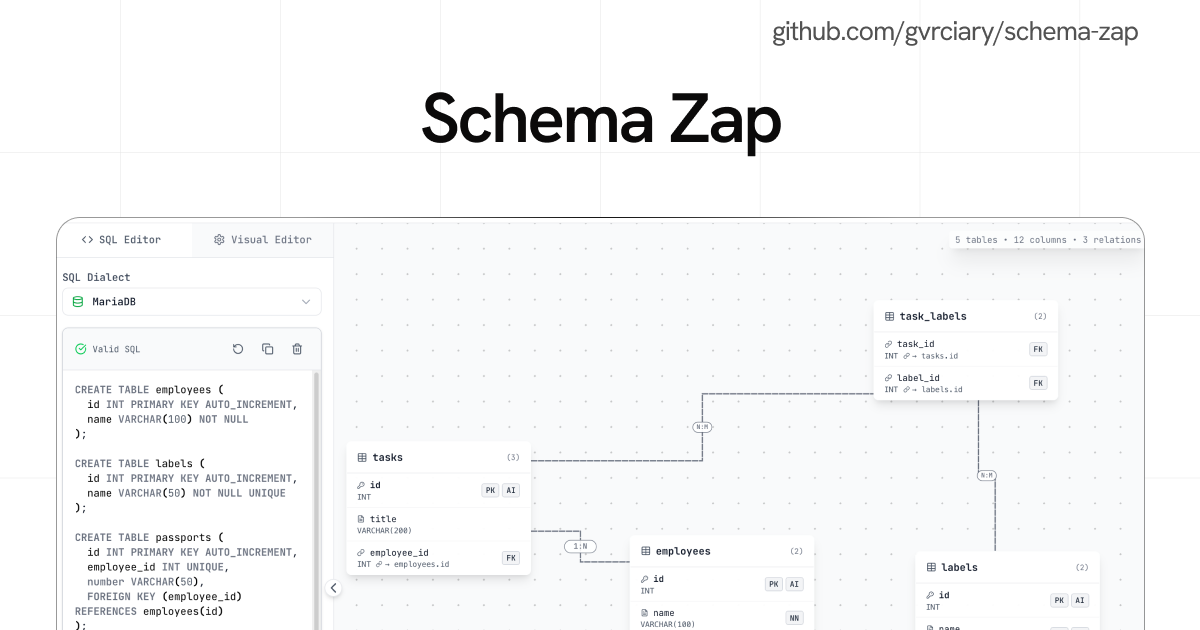
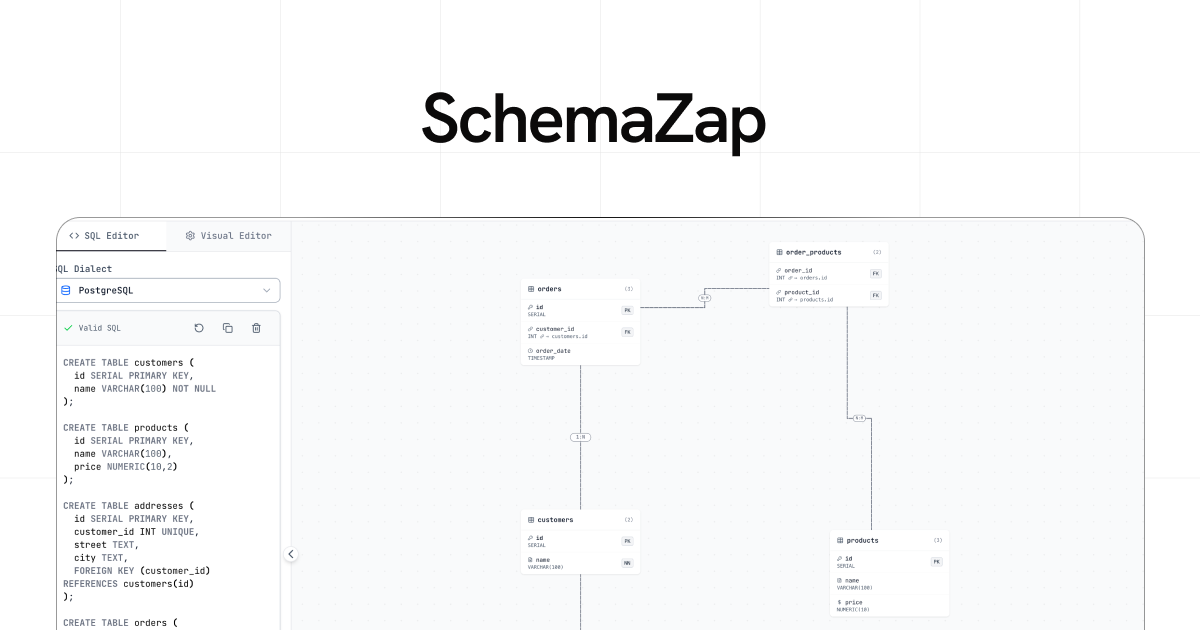
chore: update author and repo references to alexisgvrcia

diff --git a/src/app.html b/src/app.html
@@ -14,8 +14,8 @@
       name="description"
       content="Convert your SQL queries into visual database schemas instantly with SchemaZap, perfect for developers and data modeling"
     />
-    <meta name="author" content="gvrciary" />
-    <link rel="author" href="gvrciary.dev" />
+    <meta name="author" content="alexisgvrcia" />
+    <link rel="author" href="alexisgvrcia.dev" />
     <link rel="manifest" href="%sveltekit.assets%/site.webmanifest.json" />
 
     <link rel="icon" href="%sveltekit.assets%/favicon.ico" />
@@ -46,7 +46,7 @@
       name="twitter:description"
       content="Convert your SQL queries into visual database schemas instantly with SchemaZap, perfect for developers and data modeling"
     />
-    <meta name="twitter:creator" content="@gvrciary" />
+    <meta name="twitter:creator" content="@alexisgvrcia" />
     <meta name="twitter:image" content="https://schemazap.vercel.app/og-image.png" />
     <meta name="twitter:image:width" content="1200" />
     <meta name="twitter:image:height" content="630" />

diff --git a/src/lib/components/layout/header.svelte b/src/lib/components/layout/header.svelte
@@ -58,7 +58,7 @@
   </div>
 
   <div class="flex items-center gap-1 md:gap-2">
-    <a href="https://github.com/gvrciary/schema-zap" target="_blank" rel="noopener noreferrer">
+    <a href="https://github.com/alexisgvrcia/schema-zap" target="_blank" rel="noopener noreferrer">
       <Button variant="icon" size="sm" title="Github Repository">
         <GithubIcon class="h-4 w-4" />
       </Button>

diff --git a/README.md b/README.md
@@ -28,7 +28,7 @@ SchemaZap is a powerful web application that transforms your SQL DDL (Data Defin
 
 1. **Clone the repository**
    ```bash
-   git clone https://github.com/gvrciary/schema-zap.git
+   git clone https://github.com/alexisgvrcia/schema-zap.git
    cd schema-zap
    ```
 
@@ -44,4 +44,4 @@ SchemaZap is a powerful web application that transforms your SQL DDL (Data Defin
 
 ## License
 
-[![LICENSE - Apache 2.0 by gvrciary](https://img.shields.io/badge/LICENSE-Apache%202.0-111111?style=for-the-badge&labelColor=111111&logo=open-source-initiative&logoColor=white)](LICENSE)
+[![LICENSE - Apache 2.0 by alexisgvrcia](https://img.shields.io/badge/LICENSE-Apache%202.0-111111?style=for-the-badge&labelColor=111111&logo=open-source-initiative&logoColor=white)](LICENSE)